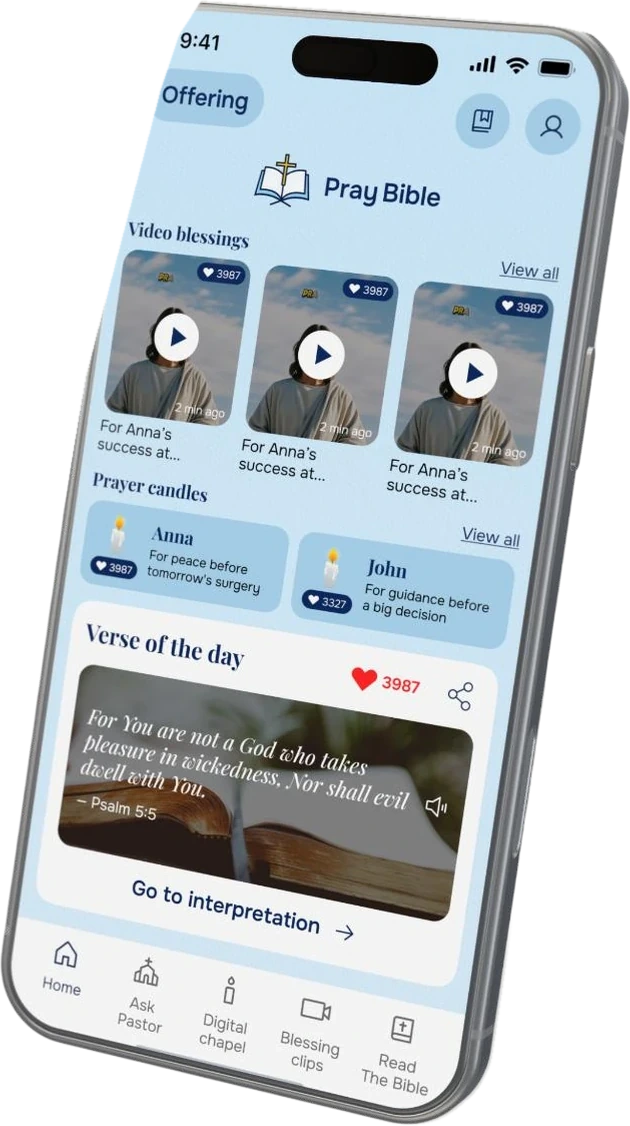
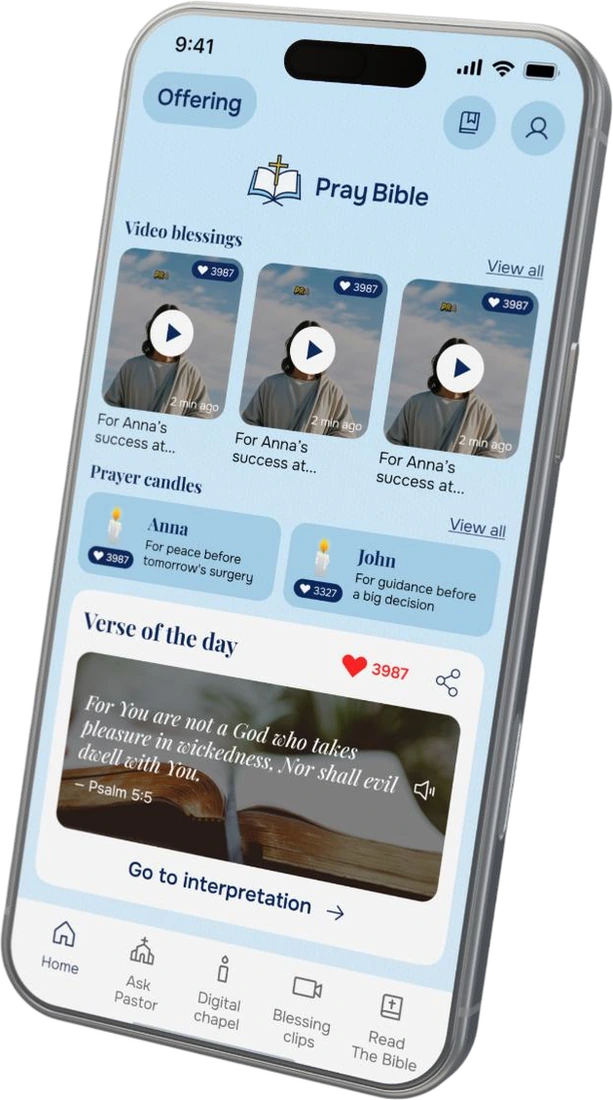
v7

diff --git a/css/case.css b/css/case.css
@@ -54,7 +54,7 @@
 /* HypothesisBadge — единственная метка гипотезы */
 .hyp { display: inline-block; align-self: flex-start; font: 600 var(--fs-label)/1 var(--font); letter-spacing: .06em; text-transform: uppercase; color: var(--accent); border: 1px solid var(--accent); border-radius: 999px; padding: 7px 12px 6px; white-space: nowrap; }
 .plabel { font: 600 var(--fs-label)/1.3 var(--font); letter-spacing: .06em; text-transform: uppercase; color: var(--ink); }
-.bar--key { border: 0; background: var(--tint-sun); border-radius: var(--r); padding: var(--sp-5) clamp(20px, 2.4vw, 32px); font-weight: 500; font-size: clamp(18px, 1.7vw, 22px); max-width: none; }
+.bar.bar--key { border: 0; background: var(--tint-sun); border-radius: var(--r); padding: var(--sp-5) clamp(20px, 2.4vw, 32px); font-weight: 500; font-size: clamp(18px, 1.7vw, 22px); max-width: none; }
 .note { color: var(--ink-2); font-size: var(--fs-small); line-height: 1.55; max-width: 44rem; }
 .bar { border-top: 1px solid var(--ink); padding-top: var(--sp-4); font-size: var(--fs-lead); line-height: 1.5; max-width: 48rem; }
 .plist { display: grid; gap: var(--sp-2); padding-left: 22px; list-style: disc; }
@@ -78,7 +78,9 @@
 .cover__result { margin-top: clamp(24px, 3vw, 40px); }
 .cover__media { justify-self: center; width: 100%; max-width: 400px; display: flex; justify-content: center; align-items: center; }
 .tile dd small { display: block; margin-top: 4px; font-size: 13px; line-height: 1.35; color: var(--ink-2); }
-.cover__phone { width: min(100%, 360px); height: auto; filter: drop-shadow(0 28px 32px rgba(20, 45, 90, .2)); }  /* тень — отдельный фильтр, в габариты не входит: телефон по центру */
+.cover__media { position: relative; }
+.cover__media::before { content: ""; position: absolute; left: 30%; right: -2%; bottom: 1.5%; height: 6%; border-radius: 50%; background: rgba(20, 45, 90, .34); filter: blur(22px); transform: rotate(-6deg); pointer-events: none; }  /* напольная тень вне сетки: телефон остаётся по центру */
+.cover__phone { position: relative; width: min(100%, 360px); height: auto; }
 
 /* ---------- Раздел ---------- */
 .cs { padding-top: var(--sec); }
@@ -106,7 +108,7 @@
 .cards--hypothesis .ccard { display: grid; grid-template-rows: subgrid; grid-row: span 2; row-gap: var(--sp-5); }
 
 /* ---------- Баннер «Ниша» ---------- */
-.banner { background: linear-gradient(115deg, #0a2760 0%, #1d519a 55%, #3a88d4 100%); color: #fff; border-radius: var(--r); display: grid; grid-template-columns: minmax(0, 1fr) auto; gap: var(--gap); align-items: end; padding: clamp(24px, 3.4vw, 56px); }
+.banner { background: linear-gradient(115deg, #0a2760 0%, #1d519a 55%, #3a88d4 100%); color: #fff; border-radius: var(--r); display: grid; grid-template-columns: minmax(0, 1fr) auto; gap: var(--gap); align-items: center; padding: clamp(24px, 3.4vw, 56px); }
 .banner__text { max-width: 44rem; }
 .banner__k { color: #c9d8ee; }
 .banner__t { margin-top: var(--sp-4); font-weight: 300; font-size: clamp(1.35rem, 2.4vw, 2.2rem); line-height: 1.18; letter-spacing: -.025em; text-wrap: balance; }
@@ -130,11 +132,11 @@
 .dn__legend b { margin-right: -4px; }
 
 /* ---------- Таблица сравнения ---------- */
-.cmp { box-shadow: 0 0 0 1px var(--line); width: 100%; border-collapse: collapse; background: var(--card); border-radius: var(--r); overflow: hidden; font-size: clamp(14px, 1.1vw, 16px); line-height: 1.45; }
-.cmp th, .cmp td { text-align: left; vertical-align: top; padding: var(--sp-4) 18px; border-top: 1px solid var(--line); }
-.cmp thead th, .cmp thead td { border-top: 0; font: 600 var(--fs-label)/1.3 var(--font); letter-spacing: .06em; text-transform: uppercase; background: var(--tint-ice); }
-.cmp tbody th { font-weight: 600; width: 16%; }
-.cmp tbody tr:first-child > * { border-top: 0; }
+.cmp { width: 100%; border-collapse: collapse; font-size: clamp(14px, 1.1vw, 16px); line-height: 1.5; color: var(--ink-2); border-bottom: 1px solid var(--ink); }
+.cmp th, .cmp td { text-align: left; vertical-align: top; padding: clamp(18px, 2.2vw, 28px) clamp(16px, 2.4vw, 36px) clamp(18px, 2.2vw, 28px) 0; border-top: 1px solid var(--ink); }
+.cmp thead th, .cmp thead td { border-top: 0; padding-block: 0 var(--sp-3); font: 600 var(--fs-label)/1.3 var(--font); letter-spacing: .06em; text-transform: uppercase; color: var(--ink); }
+.cmp tbody th { font-weight: 600; color: var(--ink); width: 16%; }
+.cmp thead tr + tr, .cmp thead { border: 0; }
 
 /* ---------- Путь пользователя (JourneyStep) ---------- */
 .journey { background: var(--card); box-shadow: 0 0 0 1px var(--line); border-radius: var(--r); padding: clamp(20px, 3vw, 40px); display: grid; gap: var(--sp-5); }
@@ -266,10 +268,12 @@
 @media (max-width: 720px) {
   .cmp thead { position: absolute; width: 1px; height: 1px; overflow: hidden; clip: rect(0 0 0 0); }
   .cmp, .cmp tbody, .cmp tr, .cmp th, .cmp td { display: block; width: auto; }
-  .cmp tbody th { width: auto; background: var(--tint-ice); }
-  .cmp tbody tr:first-child th { border-top: 0; }
+  .cmp tbody th { width: auto; padding-bottom: 0; }
+    .cmp tbody tr:first-child th { border-top: 1px solid var(--ink); }
   .cmp tbody tr:not(:first-child) th { border-top: 1px solid var(--ink); }
-  .cmp td { padding-block: 10px; border-top: 0; }
+  .cmp th, .cmp td { padding-right: 0; }
+  .cmp td { padding-block: 10px 0; border-top: 0; }
+  .cmp tbody tr { padding-bottom: 18px; }
   .cmp td::before { content: attr(data-label); display: block; font: 600 11px/1.3 var(--font); letter-spacing: .06em; text-transform: uppercase; color: var(--ink-3); margin-bottom: 3px; }
   .jsteps { grid-template-columns: minmax(0, 1fr); }
   .jr { display: none; }

diff --git a/index.html b/index.html
@@ -27,8 +27,8 @@
       </div>
       <div class="wrap hero__body">
         <p class="label hero__eyebrow">UX/UI Designer · Portfolio</p>
-        <h1 id="h1">Данил Сафин, UX/UI&nbsp;дизайнер. Проектирую цифровые продукты <em>с&nbsp;понятной логикой&nbsp;— от брифа до&nbsp;релиза</em></h1>
-        <p class="hero__sub">2+ года в IT-digital. Веду продукт от брифа до финального интерфейса — сценарии, прототипы, визуальный дизайн, дизайн-системы — для порталов, мобильных приложений, маркетплейсов и сервисов онлайн-бронирования.</p>
+        <h1 id="h1">Данил Сафин, UX/UI&nbsp;дизайнер. Проектирую цифровые продукты <em>с&nbsp;понятной логикой</em></h1>
+        <p class="hero__sub">2+ года опыта в IT и digital. Веду продукт от брифа до финального интерфейса — от пользовательских сценариев и прототипов до визуального дизайна.</p>
         <div class="hero__row">
           <a class="btn btn--solid" href="#projects">Смотреть проекты <span class="arr" aria-hidden="true">↓</span></a>
           <a class="link" href="#about">Обо мне</a>
@@ -47,11 +47,11 @@
         <div class="about">
           <p class="about__lead reveal">
             UX/UI-дизайнер. Единственный дизайнер в команде: вёл продукт от задачи до финального интерфейса и следил за реализацией вместе с разработчиками.
-            <span>Реализовал 20+ проектов — от внутренних порталов и мобильных приложений до маркетплейсов и сервисов онлайн-бронирования.</span>
+            <span>Реализовал 20+ проектов — от внутренних порталов и мобильных приложений до маркетплейсов и сервисов онлайн-бронирования. Взаимодействую с разработчиками на этапе реализации и слежу, чтобы готовый интерфейс соответствовал макетам и логике сценариев.</span>
           </p>
           <div class="about__side reveal">
-            <p>Помимо дизайна закрываю смежные задачи: коммуникацию с бизнесом, презентации и коммерческие предложения, вёрстку лендингов на Tilda и Framer.</p>
-            <p>В работе использую ИИ-инструменты — для генерации визуальных концептов и ускорения рутинных этапов вроде подготовки текстов и презентаций.</p>
+            <p>Помимо дизайна, занимаюсь коммуникацией с бизнесом, подготовкой презентаций и коммерческих предложений, вёрсткой лендингов на Tilda и Framer. Также знаком с инструментами вайбкодинга для быстрого создания и проверки цифровых решений.</p>
+            <p>Использую ИИ для генерации визуальных концепций, подготовки контента и анализа данных: помогаю себе структурировать информацию, находить закономерности и формулировать выводы. Это также ускоряет рутинные задачи и подготовку материалов.</p>
             <div><a class="btn" data-cv href="assets/pdf/cv-danil-safin.pdf" target="_blank" rel="noopener">Открыть CV (PDF) <span class="arr" aria-hidden="true">↗</span></a></div>
           </div>
 

diff --git a/data/cases/praybible.js b/data/cases/praybible.js
@@ -27,7 +27,7 @@ export default {
       ["Срок", "3 месяца"],
     ],
     result: "Результат: приложение опубликовано в App Store и Google Play.",
-    image: { src: IMG + "cover-phone-device.webp", w: 630, h: 1126, alt: "Главный экран приложения PrayBible на смартфоне" },
+    image: { src: IMG + "cover-phone-device.webp", w: 613, h: 1100, alt: "Главный экран приложения PrayBible на смартфоне" },
   },
 
   // ---------- Разделы (в порядке презентации) ----------
@@ -406,9 +406,9 @@ export default {
         {
           type: "cards", cols: 3,
           items: [
-            { kicker: "Сделано", parts: [{ text: "Айдентика, исследование, пользовательские потоки, все ключевые экраны и состояния. Макеты переданы в разработку, продукт опубликован в App Store и Google Play." }] },
-            { kicker: "Не проверено", parts: [{ text: "Не было отдельного этапа генерации альтернативных концепций и формального usability-тестирования, сроки и формат команды этого не позволяли. Компонентная библиотека собиралась по ходу проекта, без отдельного этапа проектирования дизайн-системы." }] },
-            { kicker: "Что узнал", parts: [{ text: "Сейчас я осознанно возвращаюсь к этому продукту и выстраиваю дизайн-систему заново. Также не закладывал этап usability-тестирования концептов на старте. В следующий раз буду вводить его раньше, даже при сжатых сроках." }] },
+            { parts: [{ chip: { text: "Сделано", tone: "mint" }, text: "Айдентика, исследование, пользовательские потоки, все ключевые экраны и состояния. Макеты переданы в разработку, продукт опубликован в App Store и Google Play." }] },
+            { parts: [{ chip: { text: "Не проверено", tone: "sun" }, text: "Не было отдельного этапа генерации альтернативных концепций и формального usability-тестирования, сроки и формат команды этого не позволяли. Компонентная библиотека собиралась по ходу проекта, без отдельного этапа проектирования дизайн-системы." }] },
+            { parts: [{ chip: { text: "Что узнал", tone: "ice" }, text: "Сейчас я осознанно возвращаюсь к этому продукту и выстраиваю дизайн-систему заново. Также не закладывал этап usability-тестирования концептов на старте. В следующий раз буду вводить его раньше, даже при сжатых сроках." }] },
           ],
         },
         { type: "note", text: "Заказчик позже провёл ребрендинг на основе этих наработок. Здесь показан мой этап работы, а не текущая версия продукта в сторах." },

diff --git a/js/case-blocks.js b/js/case-blocks.js
@@ -103,9 +103,11 @@ function donut(d) {
   const CX = 150, CY = 167, RM = 108, SW = 60, C = 2 * Math.PI * RM;
   let acc = 0;
   const total = d.items.reduce((s, i) => s + i.value, 0);
-  const rings = d.items.map((i) => {
-    const len = (i.value / total) * C;
-    const el = `<circle cx="${CX}" cy="${CY}" r="${RM}" fill="none" stroke="var(${TONE_VAR[i.tone]})" stroke-width="${SW}" stroke-dasharray="${len.toFixed(2)} ${(C - len).toFixed(2)}" stroke-dashoffset="${(-acc).toFixed(2)}"/>`;
+  // Подложка цвета последнего сектора + небольшое перекрытие секторов: на стыках нет щелей и «зубцов»
+  const last = d.items[d.items.length - 1];
+  const rings = `<circle cx="${CX}" cy="${CY}" r="${RM}" fill="none" stroke="var(${TONE_VAR[last.tone]})" stroke-width="${SW}"/>` + d.items.slice(0, -1).map((i) => {
+    const len = (i.value / total) * C, draw = len + 1.2;
+    const el = `<circle cx="${CX}" cy="${CY}" r="${RM}" fill="none" stroke="var(${TONE_VAR[i.tone]})" stroke-width="${SW}" stroke-dasharray="${draw.toFixed(2)} ${(C - draw).toFixed(2)}" stroke-dashoffset="${(-acc).toFixed(2)}"/>`;
     acc += len;
     return el;
   }).join("");
